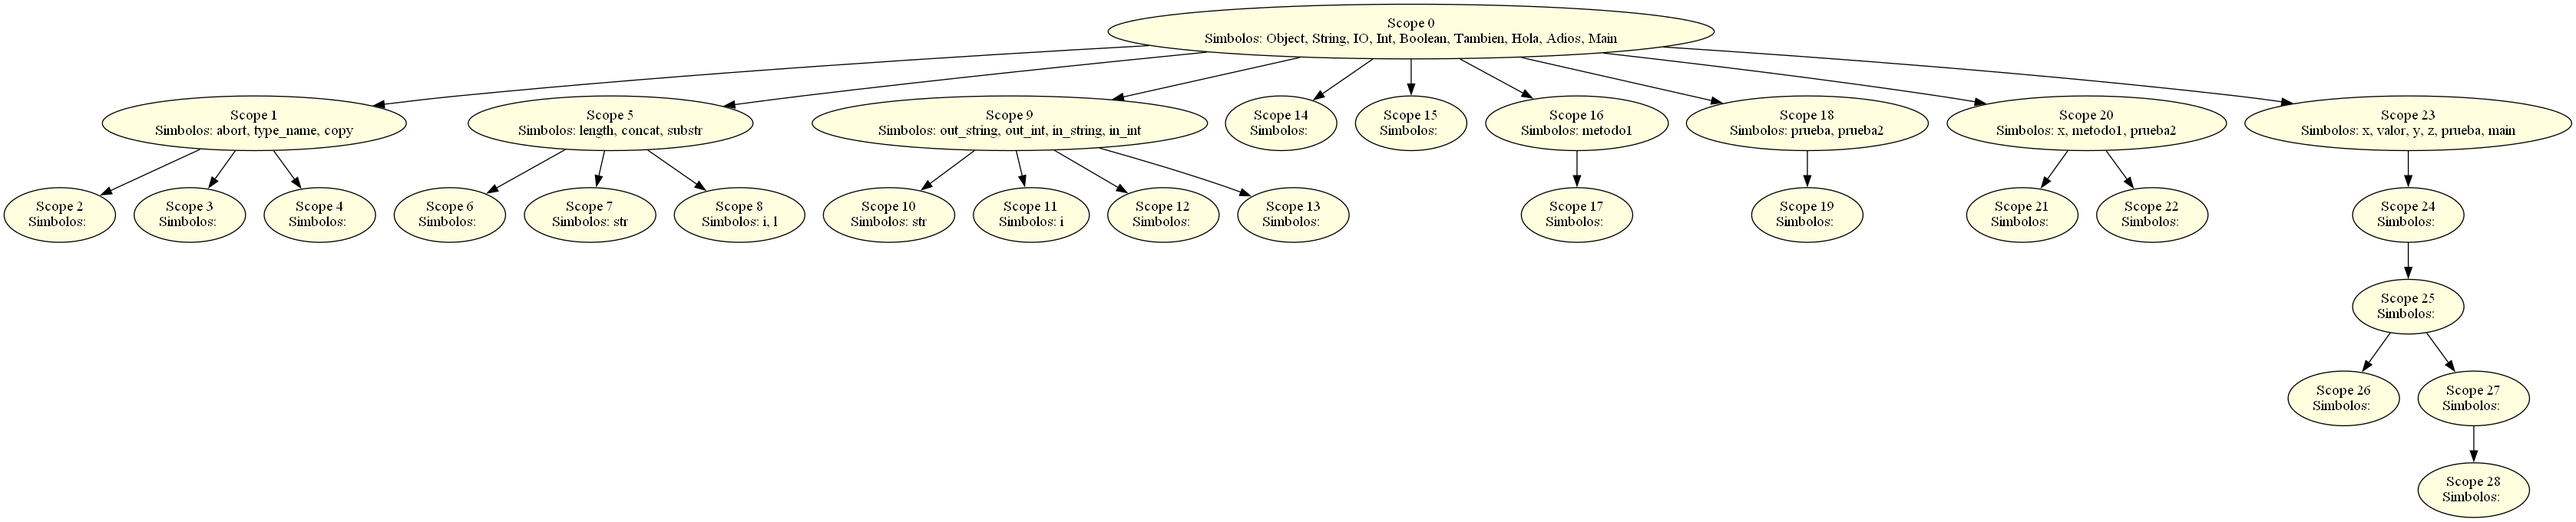
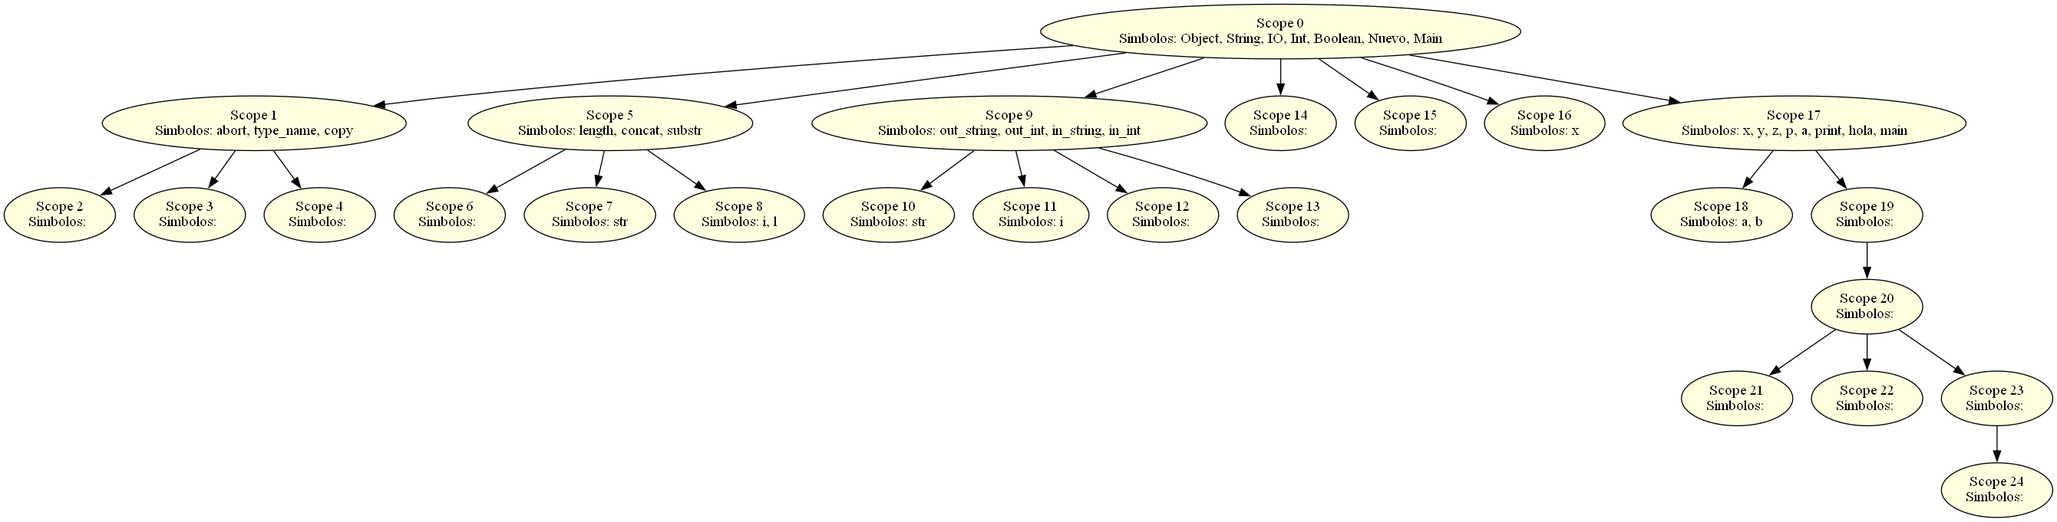
offset

diff --git a/tablaSimbolos.py b/tablaSimbolos.py
@@ -14,6 +14,7 @@ class Simbolo:
         self.hereda = hereda
         self.funcion = funcion
         self.size = 0
+        self.offset = 0
 
         if self.tipo_token == 'CLASS':
             if self.tipo_token in self.nativesizes:
@@ -25,7 +26,7 @@ class Simbolo:
             
 
     def __str__(self):
-        return f"Lexema: {self.lexema}, Linea: {self.linea}, Columna: {self.columna}, Tipo de Token: {self.tipo_token}, Scope: {self.scope}, Parametro: {self.parametro}, Hereda: {self.hereda}, Funcion: {self.funcion}, Tamaño (bytes): {self.size}"
+        return f"Lexema: {self.lexema}, Linea: {self.linea}, Columna: {self.columna}, Tipo de Token: {self.tipo_token}, Scope: {self.scope}, Parametro: {self.parametro}, Hereda: {self.hereda}, Funcion: {self.funcion}, Tamaño (bytes): {self.size}, Offset: {self.offset}"
 
     def setGlobal(self, global_):
         self.global_ = global_
@@ -75,9 +76,9 @@ class Scope:
         custom_print(self.global_terminal, f"\n{indent}Scope {self.name}:")
         
         x = PrettyTable()
-        x.field_names = ["Lexema", "Linea", "Columna", "Tipo de Token", "Global", "Parametro", "Hereda", "Funcion", "Tamaño (bytes)"]
+        x.field_names = ["Lexema", "Linea", "Columna", "Tipo de Token", "Global", "Parametro", "Hereda", "Funcion", "Tamaño (bytes)", "Offset"]
         for name, simbolo in self.symbols.items():
-            x.add_row([simbolo.lexema, simbolo.linea, simbolo.columna, simbolo.tipo_token, simbolo.global_, simbolo.parametro, simbolo.hereda, simbolo.funcion, simbolo.size])
+            x.add_row([simbolo.lexema, simbolo.linea, simbolo.columna, simbolo.tipo_token, simbolo.global_, simbolo.parametro, simbolo.hereda, simbolo.funcion, simbolo.size, simbolo.offset])
         custom_print(self.global_terminal, x)
         for child in self.children:
             child.print_scope(level+1)

diff --git a/codigoIntermedio.py b/codigoIntermedio.py
@@ -101,7 +101,6 @@ class codigoVisitor(yalpVisitor):
         for feature_ctx in ctx.feature():
             self.visit(feature_ctx)
         
-        self.tablaSimbolos.exitScope()
 
     def visitFeature(self, ctx: yalpParser.FeatureContext):
         token_type = "FUNCTION" if ctx.LPAR() else "ATTRIBUTE"
@@ -112,10 +111,8 @@ class codigoVisitor(yalpVisitor):
 
         if token_type == "FUNCTION":
             visited = self.handle_context(ctx)
-            print(visited)
            #for i in self.tablaSimbolos.current_scope.parent.children:
             #    print(i.name)
-            pass
 
         #     #self.tablaSimbolos.get_enterScope()
         
@@ -152,7 +149,7 @@ class codigoVisitor(yalpVisitor):
             # #self.tablaSimbolos.get_enterScope()
 
             visited = self.handle_context(ctx)
-            print('if', visited)
+            #('if', visited)
             
 
             if_expr = []
@@ -386,7 +383,7 @@ class codigoVisitor(yalpVisitor):
         elif ctx.NEW():
             
             visited = self.handle_context(ctx)
-            type = visited[1].text
+            return visited
 
         else:
             v = self.handle_context(ctx) 

diff --git a/semanticVisitor.py b/semanticVisitor.py
@@ -42,12 +42,19 @@ class SemanticVisitor(yalpVisitor):
         
         for key, value in simbolos_clase.items():
             if value.funcion==False:
+                values = list(simbolos_clase.values())
+                index = values.index(value)
                 if value.tipo_token in value.nativesizes:
                     parent_scope.symbols[class_name].size+=parent_scope.symbols[value.tipo_token].size
                     value.size = parent_scope.symbols[value.tipo_token].size
+                    new_offset = values[index-1].offset + values[index-1].size
+                    value.offset = new_offset
+
                 else:
                     value.size = parent_scope.symbols[value.tipo_token].size
                     parent_scope.symbols[class_name].size+=parent_scope.symbols[value.tipo_token].size
+                    new_offset = values[index-1].offset + values[index-1].size
+                    value.offset = new_offset
 
 
         

diff --git a/main.py b/main.py
@@ -140,9 +140,9 @@ def codigoTresDirecciones(lexer, tree):
     visitor.visit(tree)
 
     terminal = get_global_terminal()
-    #visitor.tablaSimbolos.print_tabla()
+    visitor.tablaSimbolos.print_tabla()
 
-
+    
     custom_print(terminal, "------------------")
     custom_print(terminal, "Cuadruplas")
     custom_print(terminal, "------------------")
